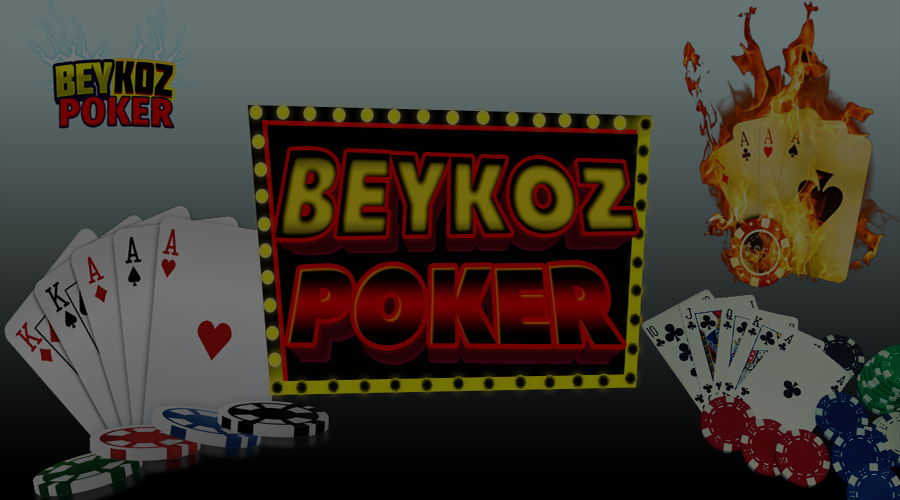
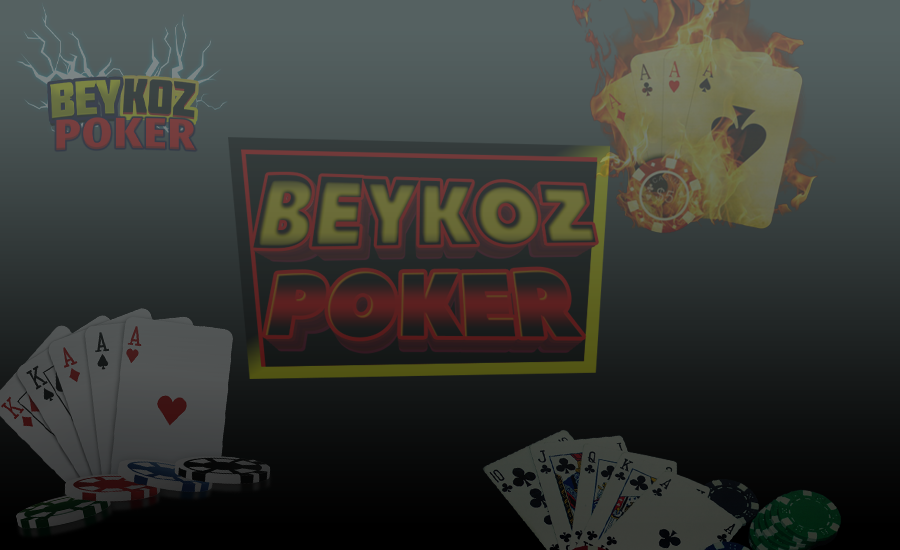
update

diff --git a/index.html b/index.html
@@ -48,7 +48,7 @@
                     <h2>morn exciting more risky more aggressive</h2>
                     <p>You need more skills to understand your competitors. Learn playing concept if you still dont and play with people all aroound the world</p>
                     <div class="butns">
-                        <button class="get-btn">GET IT NOW</button>
+                        <button class="get-btn" href="#Download">GET IT NOW</button>
                         <button class="learn-btn">LEARN RULES</button>
                     </div>
                 </div>
@@ -107,8 +107,8 @@
                             <i class="fas fa-star-of-life"></i>
                         </div>
                         <div class="col-9">
-                            <h3>Easy To Use</h3>
-                            <p>Morbi accumsan ipsum velit. Nam nec tellus a odio tincidunt auctor a ornare odio. Sed non  mauris vitae erat consequat auctor eu in elit. </p>
+                            <h3>Enjoyable</h3>
+                            <p></p>
                         </div>
                     </div>
                 </div>
@@ -118,8 +118,8 @@
                             <i class="fas fa-sitemap"></i>
                         </div>
                         <div class="col-9">
-                            <h3>Slick Design</h3>
-                            <p>Morbi accumsan ipsum velit. Nam nec tellus a odio tincidunt auctor a ornare odio. Sed non  mauris vitae erat consequat auctor eu in elit.</p>
+                            <h3>Exciting</h3>
+                            <p></p>
                         </div>
                     </div>
                 </div>
@@ -129,8 +129,8 @@
                             <i class="far fa-lightbulb"></i>
                         </div>
                         <div class="col-9">
-                            <h3>Pixel Perfect</h3>
-                            <p>Morbi accumsan ipsum velit. Nam nec tellus a odio tincidunt auctor a ornare odio. Sed non  mauris vitae erat consequat auctor eu in elit. </p>
+                            <h3>Risky</h3>
+                            <p></p>
                         </div>
                     </div>
                 </div>
@@ -401,7 +401,7 @@
                         <div class="col-12">
                             <h2>Watch How it Works</h2>
                             <hr>
-                            <p>Aenean sollicitudin, lorem quis bibendum auctor, nisi elit consequat ipsum, nec sagittis sem nibh id elit.</p>
+                            <!--<p>Aenean sollicitudin, lorem quis bibendum auctor, nisi elit consequat ipsum, nec sagittis sem nibh id elit.</p>-->
                         </div>
                     </div>
                     <video data-bgvideo="true" class="my-background-video jquery-background-video" loop muted playsinline poster="image/background-video.jpg">
@@ -419,9 +419,9 @@
             <div class="inside-container">
                 <div class="row">
                     <div class="col-12 detail-down">
-                        <h2>Download Apps iMobil Now</h2>
+                        <h2>Download Now</h2>
                         <hr>
-                        <p>Aenean sollicitudin, lorem quis bibendum auctor, nisi elit consequat ipsum, nec sagittis sem nibh id elit.</p>
+                        <p>//////////////////////////////////////////////</p>
                     </div>
                 </div>
                 <div class="row mobiles-down">
@@ -475,17 +475,16 @@
                 <div class="col-12 contact-title">
                     <h2>Get In Touch</h2>
                     <hr>
-                    <p>Aenean sollicitudin, lorem quis bibendum auctor, nisi elit consequat<br /> ipsum, nec sagittis sem nibh id elit. Duis sed odio sit amet nibh vulputate</p>
+                    <!--<p>Aenean sollicitudin, lorem quis bibendum auctor, nisi elit consequat<br /> ipsum, nec sagittis sem nibh id elit. Duis sed odio sit amet nibh vulputate</p>-->
                 </div>
             </div>
             <div class="row">
                 <div class="col-lg-4 contact-detail">
                     <h2>Contact Details</h2>
-                    <p>Morbi accumsan ipsum velit. Nam nec tellus a odio tincidunt auctor a ornare odio. Sed non  mauris vitae erat consequat auctor eu in elit.</p>
-                    <p class="contct"><i class="fas fa-map-marker-alt"></i> Via Colle Dell’Orso, 21 86100 Campobasso – Italy</p>
-                    <p class="contct"><img src="image/phone-icon.svg" alt=""> <a href="#">+61 1234 56789</a>,  <a href="#">+61 1234 56789</a></p>
-                    <p class="contct"><img src="image/fax.svg" alt="">  <a href="#">+61 1234 56789</a>,   <a href="#">+61 1234 56789</a></p>
-                    <p class="contct"><i class="fas fa-envelope"></i>  <a href="#">contact@appsimobil.com</a></p>
+                    <!--<p>Morbi accumsan ipsum velit. Nam nec tellus a odio tincidunt auctor a ornare odio. Sed non  mauris vitae erat consequat auctor eu in elit.</p>-->
+                    <p class="contct"><i class="fas fa-map-marker-alt"></i>paşabahçe 34800, Beykoz, Ist – TR</p>
+                    <p class="contct"><img src="image/phone-icon.svg" alt=""> <a href="#">+61 1234 56789</a>,  <a href="#">+90 530 634 84 42</a></p>
+                    <p class="contct"><i class="fas fa-envelope"></i>  <a href="#">beykozpoker@gmail.com</a></p>
                 </div>
                 <div class="col-lg-8 form-contact">
                     <h2>Contact Us</h2>
@@ -524,7 +523,7 @@
                 <a href="#"><span><i class="fab fa-google-plus-g"></i></span></a>
             </div>
             <div class="copyright">
-                © 2019 All Rights Reserved. <br /> Created by <a href="https://www.webdomus.net/"><strong>Web Domus Italia</strong></a>
+                © 2021 All Rights Reserved. <br /> <!-- Created by <a href="https://www.webdomus.net/"><strong>Web Domus Italia</strong></a>-->
             </div>
         </div>
     </div>

diff --git a/css/style.css b/css/style.css
@@ -402,18 +402,18 @@ button {
 /*Custom*/
 /*Banner*/
 .banner {
-    width: 70%;
+    width: 100%;
     min-height: 1000px;
     background-image: url(../image/BeykozPokerBG.png);
     background-repeat: no-repeat;
-    background-position: center;
+    background-position: left;
     background-size: cover;
     padding: 0;
-    opacity: .9;
+    opacity: 1;
 }
 /*overlay color*/
 .logo img {
-    margin: 120px 0 70px 0;
+    margin: 50px 0 150px 0;
 }
 
 .logo img {
